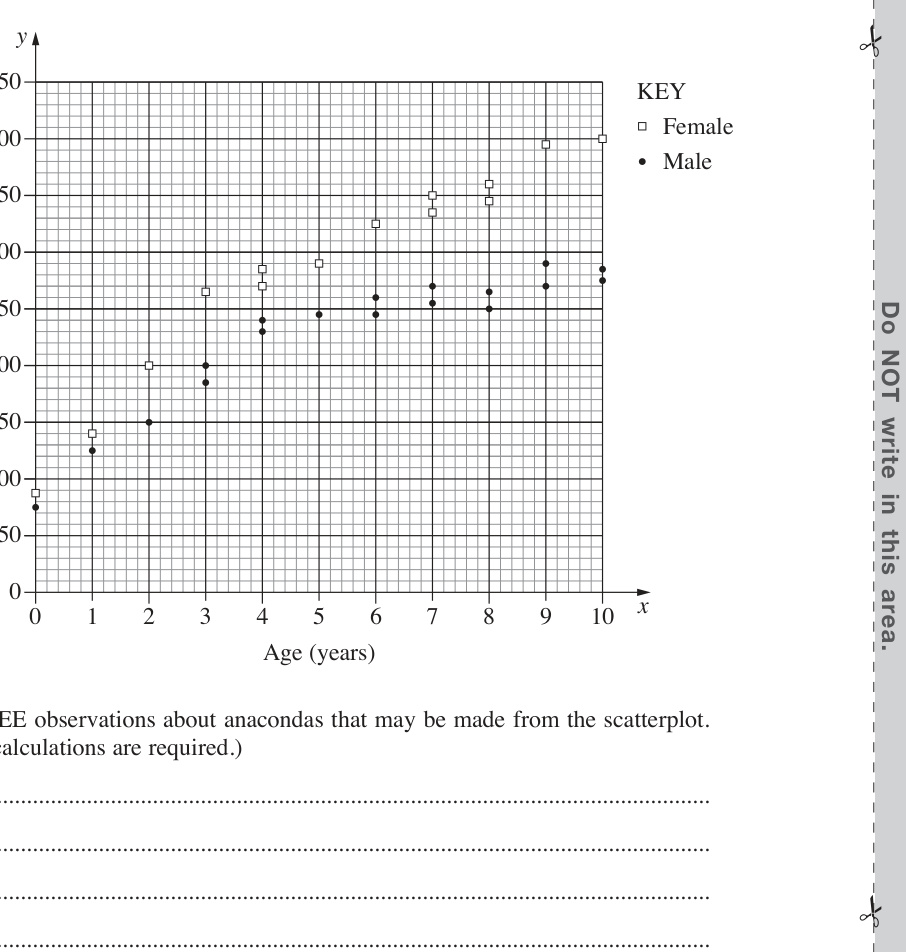
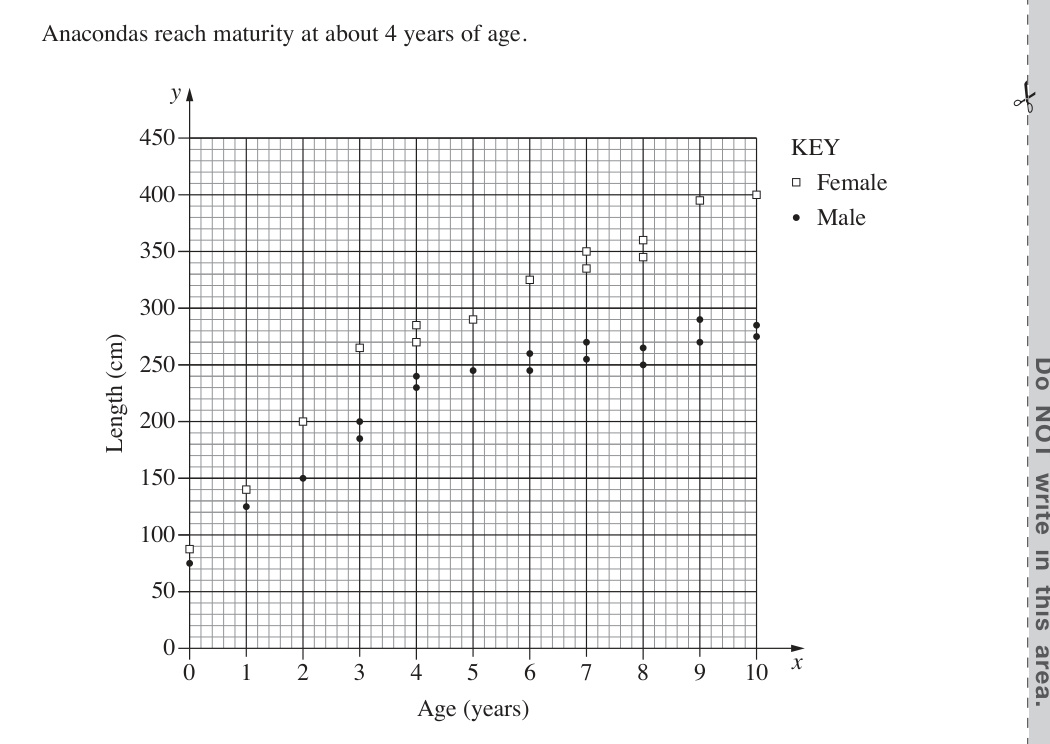
fix: re-crop 15 written stimulus images with correct tight bounds
Previous crops used vector auto-detection which captured the full
answer-writing area (y≈647 on every page). Re-cropped using hardcoded
y-bounds derived from page text analysis: y_end set to the line just
above the first question instruction text, cutting off answer lines
and sub-question text. File sizes reduced 40–70%.

Changed region(s): [[0.0, 0.0309, 0.8344, 1.0], [0.9581, 0.0, 1.0, 1.0]]

diff --git a/fix_stimulus_images.py b/fix_stimulus_images.py
@@ -1,0 +1,112 @@
+"""
+fix_stimulus_images.py — Re-crop written question stimulus images using
+proper y-bound detection: diagram ends at the first instruction text
+(left-margin text >20 chars appearing after the question header).
+
+Run: python fix_stimulus_images.py
+"""
+import fitz
+import os
+import sys
+import re
+
+sys.stdout.reconfigure(encoding='utf-8', errors='replace')
+
+DIAG_DIR = "diagrams"
+PDF = {
+    2022: "C:/Claude Code Space/CRAMIT QUIZ Code Folder/NESA Exams Folder/Maths Standard 2/2022-hsc-mathematics-standard-2.pdf",
+    2023: "C:/Claude Code Space/CRAMIT QUIZ Code Folder/NESA Exams Folder/Maths Standard 2/2023-hsc-maths-std-2.pdf",
+    2024: "C:/Claude Code Space/CRAMIT QUIZ Code Folder/NESA Exams Folder/Maths Standard 2/2024-hsc-maths-std-2.pdf",
+    2025: "C:/Claude Code Space/CRAMIT QUIZ Code Folder/NESA Exams Folder/Maths Standard 2/2025-hsc-maths-standard-2.pdf",
+}
+
+# (year, qNum, page_idx_0based, suffix)
+# page_idx verified from PDF page text
+CROPS = [
+    (2022, 23, 17, "stimulus"),
+    (2022, 32, 27, "stimulus"),
+    (2022, 35, 30, "stimulus"),
+    (2023, 18, 12, "stimulus"),
+    (2023, 34, 29, "stimulus"),   # special: diagram is blank grid to plot on
+    (2023, 38, 34, "stimulus"),
+    (2024, 19, 12, "stimulus"),
+    (2024, 26, 19, "stimulus"),
+    (2024, 30, 23, "stimulus"),
+    (2024, 34, 27, "stimulus"),
+    (2024, 35, 28, "stimulus"),
+    (2024, 38, 31, "stimulus"),
+    (2025, 26, 21, "stimulus"),
+    (2025, 36, 31, "stimulus"),
+    (2025, 39, 34, "stimulus"),
+]
+
+# Hardcoded y-crop bounds (y0, y1) in PDF points, derived from text analysis.
+# x always full content width: 50–575.
+# These were calculated by reading the page text blocks and finding:
+#   y0 = a few pts above the topmost drawing / first axis label
+#   y1 = a few pts above the first instruction text (verb or "(a)")
+HARDCODED = {
+    # 2022
+    (2022, 23): (150, 460),   # scatterplot; "(a)" at y=472
+    (2022, 32): (180, 425),   # trapezoidal cross-section; "(a)" at y=435
+    (2022, 35): (165, 435),   # scatterplot + best-fit line; "Describe" at y=444
+    # 2023
+    (2023, 18): (100, 345),   # histogram; "Provide TWO" at y=358
+    (2023, 34): (435, 740),   # blank regression grid (below answer lines); axis labels y=452–726
+    (2023, 38): (140, 360),   # z-table + normal dist diagram; "The weights" at y=369
+    # 2024
+    (2024, 19): (155, 388),   # scatter/graph; "(a)" at y=398
+    (2024, 26): (125, 525),   # toy cross-section; "Find the width" at y=536
+    (2024, 30): (155, 527),   # anacondas scatter plot; "Write THREE" at y=537
+    (2024, 34): (128, 292),   # 3D container; "What is the total" at y=302
+    (2024, 35): (128, 395),   # graph/diagram; "(a)" at y=407
+    (2024, 38): (105, 308),   # cylinder+cone cake; "The ratio" at y=319
+    # 2025
+    (2025, 26): (128, 298),   # toy cross-section; "(a)" at y=310
+    (2025, 36): (115, 355),   # salvage value graph; "The salvage values" at y=367
+    (2025, 39): (182, 507),   # exponential decay graph; "Using the information" at y=518
+}
+
+
+def crop_page(year, qnum, page_idx, suffix):
+    out_name = f"mathematics-standard-2_{year}_Q{qnum}_{suffix}.jpg"
+    out_path = os.path.join(DIAG_DIR, out_name)
+
+    key = (year, qnum)
+    if key not in HARDCODED:
+        print(f"  SKIP {year} Q{qnum}: no hardcoded bounds")
+        return False
+
+    y0, y1 = HARDCODED[key]
+    x0, x1 = 50, 575
+
+    doc = fitz.open(PDF[year])
+    page = doc[page_idx]
+
+    clip = fitz.Rect(x0, y0, x1, y1)
+    mat = fitz.Matrix(2, 2)   # 2x = 144 dpi effective
+    pix = page.get_pixmap(matrix=mat, clip=clip, colorspace=fitz.csRGB)
+    pix.save(out_path)
+    doc.close()
+
+    print(f"  OK  {year} Q{qnum}: {pix.width}x{pix.height}px  clip=({x0},{y0},{x1},{y1}) -> {out_name}")
+    return True
+
+
+def main():
+    print("=== Re-cropping written question stimulus images ===\n")
+    ok = fail = 0
+    for year, qnum, page_idx, suffix in CROPS:
+        try:
+            if crop_page(year, qnum, page_idx, suffix):
+                ok += 1
+            else:
+                fail += 1
+        except Exception as e:
+            print(f"  ERROR {year} Q{qnum}: {e}")
+            fail += 1
+    print(f"\nDone: {ok} cropped, {fail} failed/skipped")
+
+
+if __name__ == "__main__":
+    main()
